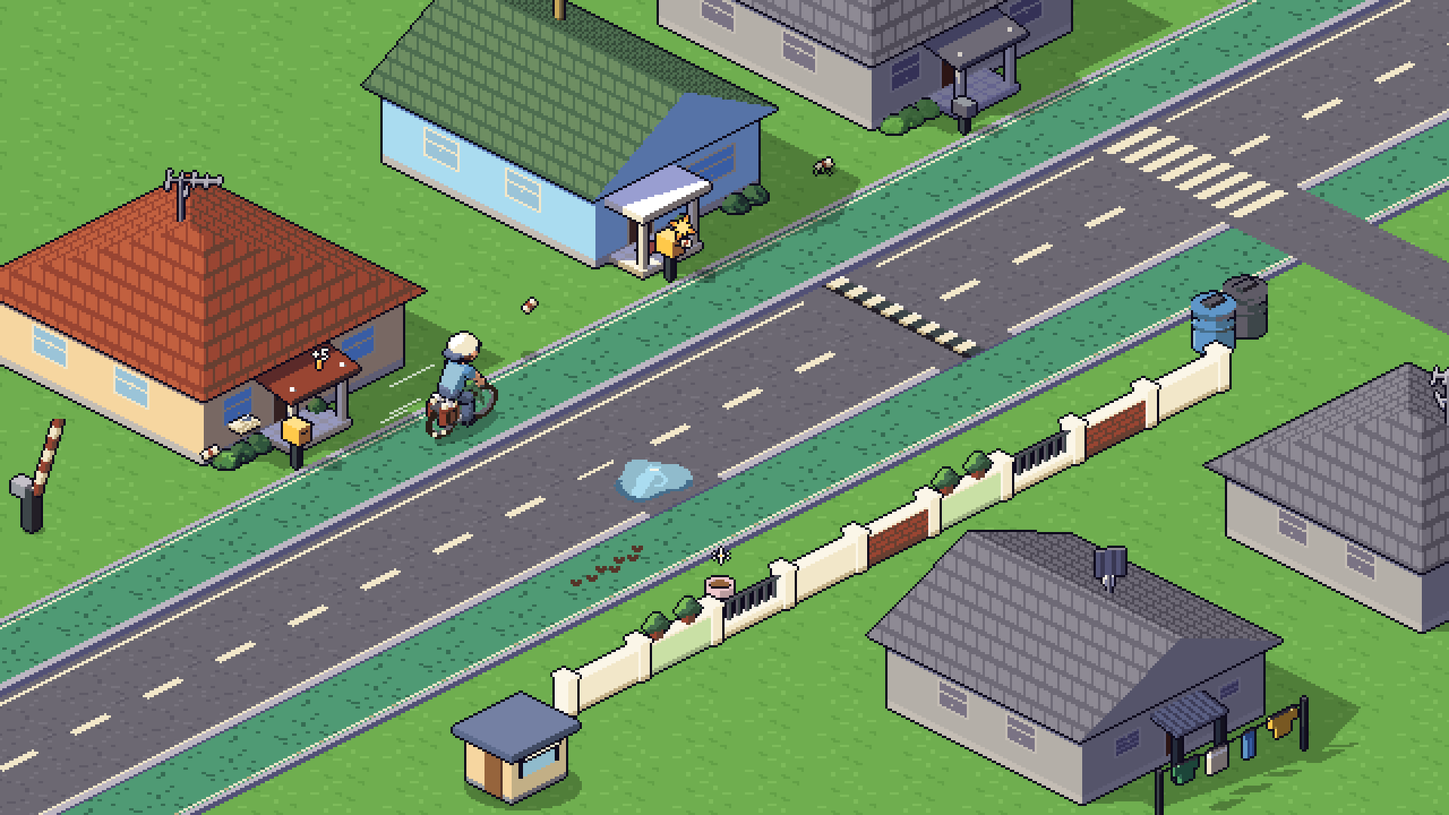
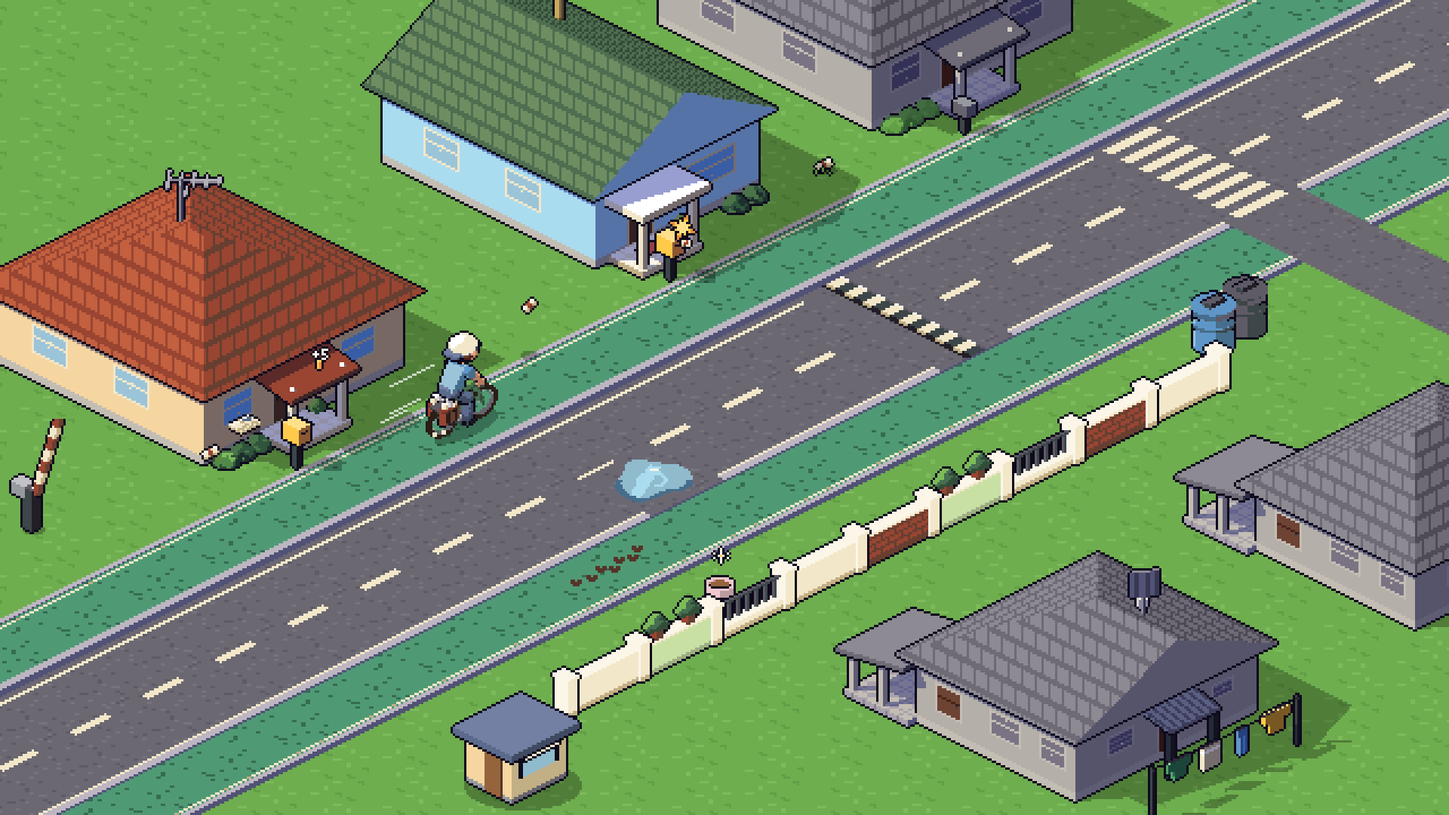
docs: DATA_SCHEMA pelanggan sisi dekat, mock gelombang1 dan LOG iterasi 1 bagian B (run 5D)
Mock gelombang1 diperbarui: tiga PNG memakai sprite rumah dekat yang diganti bagian A (uji_aset_gelombang1 merah di HEAD A).

Claude-Session: https://claude.ai/code/session_01PhCE8fHhKZTiUsZFKFJHt1

Changed region(s): [[0.5625, 0.6417, 0.9375, 1.0], [0.8125, 0.4278, 1.0, 0.7944]]

diff --git a/docs/loop/20261022-fase5d-sisi-dekat/LOG.md b/docs/loop/20261022-fase5d-sisi-dekat/LOG.md
@@ -1,11 +1,12 @@
 # Loop Log — 20261022-fase5d-sisi-dekat
 Scope: Run 5D, Fase 5 (dimajukan dari Fase 8): pelanggan sisi dekat mulai hari 3 (8-9 dari 25), tembok dekat dihapus jadi halaman terbuka, rumah dekat mundur 0,5 ubin dan didesain ulang dengan teras menjorok  ·  Branch: feat/fase5d-sisi-dekat  ·  Mulai: 2026-10-22  ·  Godot: 4.7.2
 
-## Status: IN_PROGRESS   (iterasi saat ini: 1/2, bagian A)
+## Status: IN_PROGRESS   (iterasi saat ini: 1/2, bagian B selesai; bagian C menunggu)
 
 ## Ringkasan iterasi
 | Iter | Dev menyelesaikan | Gerbang (import/tes/keluaran) | QA verdict | Temuan baru | Terverifikasi |
 |---|---|---|---|---|---|
+| 1 (B) | AC-7..AC-13: data pelanggan dekat (34 dari 36 rumah), validasi segmen, `RouteBuilder` dari hari (8/9 dekat sejak hari 3), zona dekat cermin seberang, kotak surat dua sisi, terlipat teras dekat, bantu/radar/progres, tip hari 3, probe empat ukuran; 30 mutan | import 0 / 19180 lolos 0 gagal / pemeriksa lolos; 14 uji_*.py exit 0; save tetap | menunggu orchestrator | - | - |
 | 1 (A) | AC-1..AC-6: baseline, fase3 dapat dihasilkan ulang + uji, rumah dekat baru (teras menjorok, tanpa kotak surat), tembok dilepas, mundur 0,5, kotak penutup sprite nyata; AC-6 tercapai TANPA pudar (P-3 tidak dipakai); 14 mutan | import 0 / 18933 lolos 0 gagal / pemeriksa lolos; 14 uji_*.py exit 0; save tetap | menunggu orchestrator (titik henti D-1) | - | - |
 
 ## Temuan
@@ -126,3 +127,132 @@ Semua 14 tertangkap, `git status` bersih sesudah tiap mutan (12 lewat skrip + M-
 
 ### Commit bagian A
 ed9b504 (AC-2), 2c799cb (AC-3), db8d9dd (AC-4..AC-6), dan commit probe + tangkapan + LOG ini.
+
+## Iterasi 1, bagian B (Dev)
+
+Commit bagian B: 381fa18 (kode, data, tes), f97cbd4 (probe dan tangkapan), dan commit LOG + DATA_SCHEMA + mock gelombang1 ini. `ThrowSolver`, `BikeMotion`, `Tabrakan`, `TenggatRute`, angka skor, `MissionManager`, `RencanaMisi`, `BikeCondition`, `Economy`, `DataSave`, `SaveManager`: `git diff main` kosong.
+
+### Keputusan Dev (dicatat, bukan putusan pemilik)
+- **Kandidat pelanggan dekat = 34 dari 36 rumah dekat** (`pelanggan_boleh: true`). Dua rumah bukan kandidat: `per_tengah_02@12` dan `per_tengah_03@28`, karena zona kotak surat dekat (lateral 1,75..2,75, maju pos+1,25..2,5) beririsan dengan anjing dekat (lateral 2,5..3,0) di @14 dan @30 (oracle literal di `TesSisiDekatB`). Validasi rintangan-vs-zona berlaku untuk rumah dekat yang `pelanggan_boleh`; dekor dan pita simpang diperiksa untuk SEMUA rumah dekat. **Catatan untuk review (bukan BLOCKED, tidak mengubah rintangan atau rumah):** kotak surat abu-abu dua rumah itu tumpang visual dengan anjing yang duduk di halamannya. Preseden: seberang `per_tengah_04` anjing @8 beririsan dengan zona kotak surat pelanggan seberang @6 sejak run 3B. **Rekomendasi (satu):** bila terasa mengganggu di HP, geser anjing dekat `per_tengah_02` @14 -> @16 dan `per_tengah_03` @30 -> @32 (mengubah rintangan = keputusan pemilik, di luar D-5).
+- **Zona dekat di rute** (`ZonaSasaran.zona_rumah_dekat_rute`, cermin seberang): kotak surat `[1,75; 1,25; 1,0; 1,25]` (+ inti `[2,0; 1,625; 0,5; 0,5]`), halaman `[2,0; -0,5; 1,90625; 3,0]` (dari tepi trotoar sampai badan rumah = pijak 5,0 + penutup JSON -1,09375), teras = `teras_ubin` JSON digeser ke pijak gambar (lateral 3,1875..4,0625, maju kavling -0,375..+0,5625). Konstanta `Config.RUTE_DEKAT_*` (satu baris, literal; tes membandingkan dengan JSON aset). Zona dekat JALAN UJI (`zona_rumah_dekat`, `JALAN_UJI_DEKAT_*`) tidak berubah (D-6).
+- **Kotak surat dekat** di lateral +2,125, maju kavling + 1,75 (cermin sprite seberang -2,125). Oranye pelanggan, abu-abu bukan, semua rumah dekat (D-3), termasuk hari 1-2 (semua abu-abu). `SpriteRumah.nama_rumah` kini memakai varian `_pelanggan` untuk rumah dekat terpilih (sprite A).
+- **Koran terlipat di teras dekat (catatan A):** teras dekat ada di BELAKANG pijak sprite rumah menurut Y-sort. Solusi tetap di induk Y-sort yang sama: `RumahDaurRute` membungkus sprite terlipat rumah DEKAT dalam `Node2D` pembungkus yang diletakkan `RUTE_RUMAH_DEKAT_URUT_TERLIPAT_PX` = 1 px di depan pijak rumah; sprite ada di titik tengah teras sebagai anak pembungkus; kolam dipakai ulang; seberang tidak berubah. Bukti piksel (`TesSisiDekatScene._test_terlipat_dekat`, oracle PNG + JSON + iso ditulis ulang): 0% piksel terlipat tertimpa sprite rumah dengan urutan game; kontrol (diletakkan langsung di titik teras) tertimpa >50%.
+- **`MedanKoran.tertutup_titik`** kini memakai `PenutupPemain.dari_rumah_gambar` (seberang = tapak logika, tak berubah; dekat = kotak sprite nyata). Bukti: 143 dari 143 titik seberang identik, tertutup sisi dekat 196 -> 104 dari 506 lemparan acak (kotak logika lama 3..6 x tinggi 2 menandai halaman/teras dekat "tertutup" padahal tidak tertimpa sprite; banding per lemparan di bawah).
+- **Tip hari 3:** `TipSisiDekat` (logika murni: hari = 3, 6 detik waktu game beku saat jeda, sekali per `RuteMain`, tidak diisi ulang "Main lagi") + `PanelTipSisiDekat` (scene `scenes/ui/panel_tip_sisi_dekat.tscn`, kolom kiri x 26 y 88 di bawah kartu misi, lebar 150, tanpa kontrol penerima sentuhan, inset aman dibaca seperti HUD). Kunci `RUTE_TIP_LABEL` ("TIP") dan `RUTE_TIP_SISI_DEKAT` ("Mulai hari ini pelanggan ada di kedua sisi jalan") di `ui.csv` (awalan `RUTE_` agar pemeriksa awalan tidak diubah). Tanpa bidang save; `DataSave` diff kosong.
+- **Petunjuk misi dari lemparan tepat (catatan, tidak diubah):** `MissionManager` menghitung lemparan tepat ke kotak surat pelanggan di jendela rumah; lemparan tepat ke pelanggan dekat dalam jendela itu juga memberi petunjuk (hanya sisi seberang punya titik kucing). `MissionManager`/`RencanaMisi` tidak boleh berubah; dibiarkan sebagai bonus presisi, ditandai untuk keputusan pemilik.
+- **Lingkungan tes headless:** headless mengembalikan ukuran jendela root sesudah tiap frame (viewport 640x640); tes scene baru mengatur `root.size` lagi sesudah `await` supaya langkah sinkron berjalan di 780x360. Tes lama tidak diubah.
+- **Perbaikan bagian A yang tidak tertangkap:** `uji_aset_gelombang1.py` merah di HEAD bagian A (3 mock `komposisi_siang/sore_x3` dan `sisi_dekat_siang_x3` memakai sprite rumah dekat yang diganti A). Diperbaiki: `python3 tools/env_art/gelombang1/render.py --mock`, hanya tiga PNG yang berubah-dan-diuji yang dikomit (enam PNG lain ikut berubah byte oleh pustaka mesin ini dan dikembalikan).
+- **P-3 pudar, tembok:** tidak dipakai / sudah dihapus di bagian A; mutan terkait ada di tabel A (M-A3, M-A12) dan tidak diulang.
+
+### AC-7 data dan validasi
+- 9 segmen nyata sah, 0 galat; `sisi_pelanggan` semuanya `dua_sisi`; `DISTRIK_SATU_SISI` dihapus. Validasi baru `SegmenRute`: tag sesuai isi (`_periksa_sisi_pelanggan`), `rintangan_menimpa_zona_dekat` (anjing diam dan lintasan mobil vs zona kotak surat dan teras rumah dekat kandidat). Aturan dekor (kotak surat + teras) dan pita simpang (zona rumah) yang lama otomatis memakai geometri zona baru; data nyata lolos tanpa memindah dekor (tidak ada dekor dipindah).
+- Tes negatif satu per satu + positif di `TesSisiDekatB._test_validasi_segmen` (anjing @12 ditolak, @11 sah, rumah bukan kandidat sah, anjing seberang sah, mobil dekat, pohon, lampu, simpang @9 ditolak, pohon @8 dan simpang seberang sah, enam kasus tag). Jalan masuk garasi (lateral <= 0) tidak pernah menjangkau zona dekat: dites untuk pos 3..40, bukan cabang validasi.
+
+### AC-8 RouteBuilder dari hari, ukur hari 3..102 (`tests/ukur_hari_dekat.gd`)
+| Ukuran | Nilai |
+|---|---|
+| Rute sah | 100 dari 100 (gagal 0) |
+| Jumlah dekat per rute | **8: 54 rute, 9: 46 rute** (100% di {8, 9}); 25 pelanggan tiap rute, semua rumah `pelanggan_boleh` |
+| Persentase dekat | 8/25 = 32%, 9/25 = 36% (rata-rata 34,6%) |
+| Celah gabungan (dua sisi, urut maju) | min 2,0 / median 10,0 / **maks 20,0** ubin (batas 20), tidak ada celah 0 |
+| Celah per sisi | seberang 4,0 / 16,0 / 24,0; dekat 16,0 / 28,0 / 44,0 (maks seberang 24 > 20 wajar: batas berlaku pada celah gabungan) |
+| Tenggat | 89 .. 92 detik (panjang rute 232 .. 240 ubin; rumus tidak berubah) |
+- Hari 1-2: rute identik `main`. Golden 60 seed dihitung di `main` (53408cf) oleh Python dari dump pustaka `main` (identitas: panjang, koran, tenggat, segmen, pelanggan, pemberi tip, rintangan, titik misi, dekor, rumah id/maju/jenis) dan ditulis literal di `TesSisiDekatB.GOLDEN_HARI1`: 60 dari 60 cocok; `bangun` tanpa hari = hari 1 = hari 2. Banding pustaka `main` vs HEAD bagian B per bidang (60 seed): satu-satunya beda adalah bidang `pelanggan_boleh` rumah DEKAT (1678 entri); segmen, rumah (id, maju, sisi, jenis), pelanggan, pemberi tip, objek, titik misi, dekor, simpang, panjang, koran, tenggat, galat identik. Pustaka `main` dan HEAD bagian A identik.
+- RNG hari >= 3: kuota (`randi_range(8, 9)`) diundi dari RNG rute SESUDAH susunan segmen; dua `_cocokkan` (dekat, lalu seberang) memakai RNG yang sama; tanpa RNG di luar seed. Hari tidak ikut seed (hari 3 dan hari 50 dengan seed sama = rute sama). `periksa_rute(rute)` memakai `Rute.hari`: pelanggan dekat hanya hari >= 3, hanya rumah `pelanggan_boleh`, kuota 8-9, celah gabungan <= 20.
+- `HariMain` meneruskan hari lewat `RuteMain.atur_hari` SEBELUM scene masuk pohon (tes dengan save hari 2, 3, 4 di folder sementara: `rute.hari()`, seed `SeedHari.rute(hari)`, 0 / 8-9 pelanggan dekat, tip hanya hari 3). `rute.tscn` sendiri = hari 1. "Main lagi" mempertahankan hari.
+
+### AC-9, AC-10, AC-11, AC-12 (tes scene `tes_sisi_dekat_scene.gd`, nilai harapan literal atau dari JSON/PNG)
+- Kotak surat: tiap rumah di jendela punya tepat satu kotak (oranye pelanggan / abu-abu bukan) di lateral -2,125 (seberang) atau +2,125 (dekat), maju kavling + 1,75, sprite rumah varian sesuai; hari 1 semua dekat abu-abu; node kolam dipakai ulang.
+- Prediksi = hasil: swipe NYATA (event sentuh -> `TouchRouter` -> garis bidik -> lepas -> koran terbang -> mendarat) ke kotak surat, teras, halaman, dan meleset di sisi dekat, tangan normal dan KIDAL (zona swipe kiri): titik mendarat diklasifikasikan oracle independen (literal + `teras_ubin`/`penutup_ubin` JSON) = hasil game = prediksi garis bidik = antaran (SAH_PENUH / SAH_PENUH / SAH_SETENGAH / TIDAK_SAH), elips SAH hanya bila sah. Selain itu grid 18.818 titik (1/16 ubin) pelanggan + bukan: 0 beda dari oracle (`_test_zona_oracle_grid`).
+- Skor/koin sama aturan: ANTAR sisi dekat `skor 100` (= `SKOR_SASARAN_DASAR`, combo 1,0, santai) dan koin >= ongkos 15; pemberi tip dekat: teras +5 tip, kotak surat 0 tip (SkorRute tidak punya input sisi).
+- Mode bantu: untuk tiap pelanggan dekat, sepeda mundur 0..8 ubin (langkah 0,5) dari kotak suratnya: SEMUA pilihan bantu dekat (>50) = pelanggan dekat terdekat di depan (oracle literal pos+1,875), mendarat di zona kotak surat (selalu kena); tiap pelanggan dekat terjangkau dari suatu titik; sesudah pelanggan dekat terakhir = tanpa sasaran; sisi seberang tidak pernah menyasar zona dekat; tap bantu nyata: koran bantu, KOTAK_SURAT, bukan tepat.
+- Radar (strip DEKAT = kanan; kidal tidak menukar), `jangkau`, jenis TIP/PELANGGAN/BUKAN (abu-abu hanya mode bantu), terantar keluar: dibandingkan oracle literal (jarak = pos + 1,875 - sepeda, 0..30, jangkau <= 5) untuk 2 x 2 x 122 keadaan; progres 25 kotak dua sisi (BERIKUTNYA, TERLEWAT < -3, TERKIRIM) = oracle; `jumlah_terkirim` menghitung dekat.
+- Tip: hanya hari 3 (tidak 1, 2, 4, 50), teks terjemahan tampil, panel tidak menelan sentuhan (tap bantu tetap melempar saat tip tampil), di dalam viewport dan tidak menimpa panel progres/tombol jeda, beku saat jeda (60 x 1 detik jeda: sisa tidak berubah), hilang sesudah 6 detik, "Main lagi" tidak memunculkan lagi, kidal dan inset aman.
+
+### Bot bantu (scene nyata, AC-11): 25/25 terkirim, 0 lewat tenggat di 22 rute
+Bot: mode bantu, tanpa stick (santai 3,0 u/d), satu tap per pelanggan yang belum dibidik (sisi dekat dulu), dt 1/30 (hari 1-2 = dua rute seed hari 1 dan 2; 20 seed hari 3..22).
+| Hari | Dekat | Selesai (detik) | Tenggat | Sisa |
+|---|---|---|---|---|
+| 1 | 0 | 80,0 | 92 | 12,0 |
+| 2 | 0 | 78,6 | 91 | 12,4 |
+| 3 | 8 | 77,2 | 89 | 11,8 |
+| 4 | 9 | 78,6 | 91 | 12,4 |
+| 5 | 8 | 78,6 | 91 | 12,4 |
+| 6 | 9 | 78,6 | 91 | 12,4 |
+| 7 | 9 | 78,6 | 91 | 12,4 |
+| 8 | 8 | 77,2 | 89 | 11,8 |
+| 9 | 8 | 77,2 | 89 | 11,8 |
+| 10 | 9 | 78,6 | 91 | 12,4 |
+| 11 | 8 | 79,9 | 92 | 12,1 |
+| 12 | 8 | 77,2 | 89 | 11,8 |
+| 13 | 8 | 79,9 | 92 | 12,1 |
+| 14 | 8 | 78,6 | 91 | 12,4 |
+| 15 | 9 | 78,6 | 91 | 12,4 |
+| 16 | 9 | 78,6 | 91 | 12,4 |
+| 17 | 9 | 77,2 | 89 | 11,8 |
+| 18 | 9 | 78,6 | 91 | 12,4 |
+| 19 | 8 | 78,6 | 91 | 12,4 |
+| 20 | 9 | 77,2 | 89 | 11,8 |
+| 21 | 9 | 77,2 | 89 | 11,8 |
+| 22 | 8 | 78,6 | 91 | 12,4 |
+Sisa tenggat 11,8..12,4 detik di semua seed (dua sisi tidak memperlambat bot karena kecepatan santai tetap dan kecepatan bantu tidak bergantung jumlah pelanggan; bot mode bantu tidak melemparkan koran lebih dari 25 dari 30).
+
+### Rumah dekat di bawah panel HUD bawah (diukur, HUD TIDAK diubah; probe 2340x1080, juga 1600x720: angka sama)
+Sepeda tiap 2 ubin sepanjang rute (114 sampel), lateral 0,5, tangan normal dan kidal (angka sama):
+- kotak pembatas sprite rumah dekat menyentuh panel kecepatan/stamina atau panel koran di **100%** sampel (rumah dekat memang selalu lewat di bawah panel bawah, bukan akibat run ini);
+- titik kotak surat dekat (mana pun, termasuk yang sudah lewat) di dalam panel bawah di 52% sampel;
+- **kotak surat PELANGGAN dekat dalam jangkauan lempar (0..5 ubin di depan) di dalam panel bawah di 0% sampel**: sasaran yang bisa dilempar tidak pernah tertutup panel. Rumah dekat tampak (di tangkapan 2340, 1920, 1600) tertutup sebagian panel di bawah sepeda; dinilai di HP (SETUP_ANDROID 8.16 butir 8).
+
+### Tes lama yang angkanya berubah (D-5, satu per satu, alasan)
+1. `tes_rute.gd`: `BOLEH` dipisah, `BOLEH_DEKAT` baru (literal), total `pelanggan_boleh` 37 -> 37 seberang + 34 dekat = 71, tag nyata `seberang` -> `dua_sisi`, mutan data `sisi_pelanggan_dekat` dan `rumah_pelanggan_dekat` kini ditolak dengan "tidak sesuai isi" (aturan satu sisi dihapus, P-4), mutan `periksa_rute` memakai pesan baru "bukan rumah yang boleh untuk hari".
+2. `tes_rute_scene.gd`: `nama_rumah(dekat terpilih)` = `_pelanggan` (dulu selalu `_bukan`); titik "di balik rumah dekat" (2,5 -> 2,9) karena kotak tertutup rumah dekat = sprite nyata (teras dan atap tidak lagi menutup lateral 2,5).
+3. `tes_kotak_surat.gd`: rumah dekat kini punya kotak surat (lateral +2,125); batas simpul kolam 20 -> maks rumah di jendela + 4 (kedua sisi).
+4. `tes_sisi_dekat.gd`: golden 1000 lemparan dipecah per sisi. Seberang `[494, 5508, 143, 809075394]` = nilai sebelum run 5B (tidak berubah); dekat `[506, 5629, 104, 648143202]` baru (HEAD A: tertutup 196, checksum 1274964814). Banding per lemparan HEAD A vs HEAD B (1000 lemparan, skrip `dump_lempar.gd`): 45 beda hasil/zona, **semuanya di sisi dekat (0 di seberang)**; 92 beda tertutup, 0 di seberang. Total checksum 992255826 -> 1166943782.
+5. `tes_dekor.gd`: (a) golden rute 60 seed dihitung ulang oleh skrip; bukti: dengan `pelanggan_boleh` rumah dekat ditopeng false, sidik 60 seed = nilai lama persis (kontrol skrip), jadi beda hanya bidang itu; (b) "tapak (2,25; 10,75) menimpa teras dekat" diganti: teras dekat baru di lateral 3,19..4,06 tidak terjangkau dekor (lateral <= 2,75), ditambah tes tapak hipotetis dan batas kotak surat 2,75; "pohon dekat @11 menimpa teras" -> sah (tapak maju berakhir 11,25 = awal kotak surat).
+6. `tes_simpang.gd`: golden rute 60 seed (uraian dengan dekor) dihitung ulang, bukti kontrol topeng sama.
+- `run_tests.gd`: dua tes baru didaftarkan. Total tes: 18933 -> **19180** lolos (+247), 0 gagal.
+
+### Mutan nyata bagian B (30; satu perubahan, runner = tes bagian B (82 cek) / tes scene baru (122 cek) / `run_tests.gd` penuh, `git checkout`, `git status` bersih tiap kali; skrip `mutan_b.py` di scratchpad Dev)
+| ID | Berkas | Perubahan satu baris | Hasil | Gagal yang menangkap (contoh) |
+|---|---|---|---|---|
+| M-B1 | `route_builder.gd` | hari mulai `>=` jadi `>` | TERTANGKAP (5) | hari mulai pelanggan dekat = 3 (2 tidak, 3 ya) |
+| M-B2 | `config.gd` | kuota min 8 -> 7 | TERTANGKAP (2) | sebaran { 8: 39, 9: 37, 7: 24 } != golden |
+| M-B3 | `config.gd` | kuota maks 9 -> 10 | TERTANGKAP (2) | sebaran dengan 10 |
+| M-B4 | `config.gd` | `RUTE_DEKAT_HARI_MULAI` 3 -> 2 (pelanggan dekat di hari 2) | TERTANGKAP (6) | hari 1 = hari 2 untuk seed sama (0 dari 60) |
+| M-B5 | `route_builder.gd` | RNG hari 1-2 bergeser (`+ rng.randi() * 0` di jalur lama) | TERTANGKAP (1) | 60 rute tanpa hari: identitas = golden main (0 cocok) |
+| M-B6 | `route_builder.gd` | celah gabungan tidak diperiksa di pemilih (batas 1000) | TERTANGKAP (2) | 100 hari semuanya sah (gagal 6, ditolak `periksa_rute`) |
+| M-B7 | `route_builder.gd` | kandidat dekat tanpa `pelanggan_boleh` | TERTANGKAP (6, galat skrip) | 100 hari semuanya sah (gagal 100) |
+| M-B8 | `config.gd` | kotak surat dekat lateral +2,125 -> -2,125 (sisi salah) | TERTANGKAP (2) | tiap rumah punya kotak surat di lateral dekat +2,125 |
+| M-B9 | `zona_sasaran.gd` | teras dekat dari geometri lama (`JALAN_UJI_DEKAT_TERAS_UBIN`) | TERTANGKAP (3) | teras dekat dari geometri teras menjorok |
+| M-B10 | `zona_sasaran.gd` | prioritas halaman dan teras tertukar | TERTANGKAP (2) | klasifikasi grid: 180 beda dari oracle |
+| M-B11 | `zona_sasaran.gd` | skor dekat beda (zona kotak surat dekat berjenis HALAMAN) | TERTANGKAP (8) | kotak surat dekat = cermin seberang |
+| M-B12 | `bantu_lempar.gd` | bantu menyasar sisi seberang untuk tap dekat | TERTANGKAP (24) | sasaran bantu dekat = pelanggan dekat terdekat |
+| M-B13 | `radar_rute.gd` | radar tanpa rumah dekat | TERTANGKAP (2) | radar = oracle literal |
+| M-B14 | `progres_rute.gd` | `jumlah_terkirim` hanya seberang | TERTANGKAP (22) | jumlah terkirim menghitung pelanggan dekat |
+| M-B15 | `tip_sisi_dekat.gd` | tip di hari >= 3 (hari lain) | TERTANGKAP (5) | hari tip hanya 3 |
+| M-B16 | `tip_sisi_dekat.gd` | tip tidak tampil di hari 3 (kunci kosong) | TERTANGKAP (8) | kunci teks dan lama 6 detik hanya di hari 3 |
+| M-B17 | `config.gd` | mundur 0,5 -> 1,25 (mundur lama kembali) | TERTANGKAP (2) | teras dekat dari geometri teras menjorok |
+| M-B18 | `medan_koran.gd` | kotak penutup titik bukan sprite nyata (`dari_rumah`) | TERTANGKAP (1; run_tests penuh) | sisi dekat [506, 5629, 196, ...] != nilai baru |
+| M-B19 | `segmen_rute.gd` | cabang teras validasi rintangan dilepas | TERTANGKAP (1) | lintasan mobil garasi dekat @10 menimpa teras |
+| M-B20 | `segmen_rute.gd` | validasi rintangan berlaku untuk bukan kandidat juga | TERTANGKAP (9) | 9 segmen nyata sah (per_tengah_02 anjing menimpa) |
+| M-B21 | `segmen_rute.gd` | cabang tag `seberang` dilepas | TERTANGKAP (1) | seberang padahal ada rumah dekat yang boleh |
+| M-B22 | `config.gd` | urut Y-sort terlipat +1 -> -1 px | TERTANGKAP (3) | pembungkus di pijak rumah + (0; 1) px |
+| M-B23 | `hari_main.gd` | `atur_hari` tidak dipanggil | TERTANGKAP (6) | save hari 2: rute.hari() = 2 |
+| M-B24 | `rute_main.gd` | tip memakai dt waktu dinding (tidak beku saat jeda) | TERTANGKAP (1) | jeda 60 detik: tip beku (sisa 4,9 = 5,9) |
+| M-B25 | `route_builder.gd` | cek kuota 8-9 di `periksa_rute` dimatikan | TERTANGKAP (2) | mutan: 7 pelanggan dekat ditolak |
+| M-B26 | `sprite_rumah.gd` | rumah dekat selalu varian `_bukan` | TERTANGKAP (1) | sprite rumah bukan varian pelanggan |
+| M-B27 | `rumah_daur_rute.gd` | kotak surat oranye hanya seberang | TERTANGKAP (2) | tiap rumah punya kotak surat sesuai status |
+| M-B28 | `config.gd` | halaman dekat 1,90625 -> 1,0 lebar (geometri halaman lama) | TERTANGKAP (4) | halaman dekat sampai badan rumah |
+| M-B29 | `segmen_rute.gd` | `_periksa_sisi_pelanggan` tidak dipanggil | TERTANGKAP (4) | dua_sisi tanpa rumah dekat yang boleh ditolak |
+| M-B30 | `route_builder.gd` | kuota dekat tetap 8 (tidak diundi) | TERTANGKAP (1) | sebaran { 8: 100 } != golden |
+Total mutan Dev: 14 (A) + 30 (B) = **44** (target >= 30 terpenuhi). Mutan "validasi tumpang tiap cabang dilepas": rintangan (M-B19, M-B20), tag (M-B21, M-B29); dekor dan pita simpang adalah aturan lama yang dijaga `tes_dekor`/`tes_simpang` (M-A12 untuk kavling simpang). Butir AC-19 yang tidak berlaku di bagian B: pudar P-3 (tidak dipakai), tembok masih dipasang (dihapus di A, M-A3), aset tembok tersalin (M-A10), `.import` bukan Lossless (M-A11), fase3 tidak deterministik (M-A2). 
+
+### Gerbang bagian B (Dev, HEAD sesudah commit LOG)
+- `godot --headless --import`: 0 ERROR/WARNING. `godot --headless --path . --quit-after 2`: 0 ERROR/WARNING.
+- `run_tests.gd`: **19180 lolos, 0 gagal**; `tools/cek_keluaran_tes.py`: lolos (0 peringatan).
+- 14 `tools/tests_cek/uji_*.py` exit 0 (setelah mock gelombang1 diperbarui).
[1 lines of base64/hex data omitted]
+- Probe `tests/probe_sisi_dekat_jendela.gd` 2340x1080, 1920x1080, 2400x1080, 1600x720: exit 0, **0 keadaan tidak sesuai** di keempat ukuran, 0 baris ERROR/WARNING.
+
+### Tangkapan bagian B (`docs/loop/20261022-fase5d-sisi-dekat/shots/iter1/`, `<ukuran>_dekat_<keadaan>.png`, dilihat Dev)
+Keadaan baru: `hari3_tip` (tip di kolom kiri di bawah kartu misi, tidak menutupi kontrol), `jalur_dekat`/`trotoar_dekat` (kotak surat oranye/abu-abu dekat di tepi trotoar), `sasaran_{bidik,terbang,kena}`, `teras_*`, `halaman_*`, `meleset_*` (swipe nyata; kena = centang + "+15" di kotak surat dekat), `terlipat_dekat` (koran terlipat di teras dekat, sepeda 5 ubin di belakang rumah), `bantu_dekat_{terbang,kena,tanpa_sasaran}`, `radar_dekat` (strip kanan, penanda pelanggan dekat), `hari2_tanpa_dekat` (kotak surat dekat semua abu-abu, tanpa tip), `kidal`. Catatan dari tangkapan: rumah dekat di bawah sepeda sebagian tertutup panel HUD bawah (diukur di atas); tip tetap tampil di tangkapan lempar karena belum 6 detik waktu game.

diff --git a/docs/DATA_SCHEMA.md b/docs/DATA_SCHEMA.md
@@ -135,8 +135,8 @@ File: `assets/data/routes/<distrik>/<id>.json`, satu file per segmen, **JSON bua
 | `id` | Kode unik huruf kecil dan garis bawah, **sama dengan nama berkas** (`per_tengah_02` di `per_tengah_02.json`) |
 | `distrik` | Distrik segmen (`perumahan`) |
 | `panjang` | Panjang dalam ubin, bilangan bulat 24 sampai 40 |
-| `tag` | `tingkat` (`tenang`/`sedang`/`padat`), `sisi_pelanggan` (`seberang`/`dekat`/`dua_sisi`), `posisi` (`pembuka`/`tengah`/`penutup`). Pembuka dan penutup selalu `tenang` |
-| `rumah` | Daftar petak rumah: `pos` (ubin dari awal segmen, bilangan bulat), `sisi` (`seberang`/`dekat`), `jenis` (bentuk rumah, daftar di bawah), `pelanggan_boleh` (true/false) |
+| `tag` | `tingkat` (`tenang`/`sedang`/`padat`), `sisi_pelanggan` (`seberang`/`dekat`/`dua_sisi`), `posisi` (`pembuka`/`tengah`/`penutup`). Pembuka dan penutup selalu `tenang`. `sisi_pelanggan` harus sesuai isi (run `20261022-fase5d-sisi-dekat` bagian B, divalidasi `SegmenRute`): `dua_sisi` bila ada rumah seberang DAN rumah dekat yang `pelanggan_boleh`, `seberang` bila tidak ada rumah dekat yang boleh, `dekat` bila tidak ada rumah seberang yang boleh. Sembilan segmen perumahan sekarang `dua_sisi` |
+| `rumah` | Daftar petak rumah: `pos` (ubin dari awal segmen, bilangan bulat), `sisi` (`seberang`/`dekat`), `jenis` (bentuk rumah, daftar di bawah), `pelanggan_boleh` (true/false; rumah dekat boleh sejak run 5D bagian B, tetapi pelanggan dekat baru dipilih `RouteBuilder` pada hari >= 3) |
 | `objek` | Rintangan yang ditandai: `jenis`, `pos`, `jalur` (`seberang`/`dekat`; **tidak pernah `tengah`**), `tanda_ubin` (jarak tanda terlihat sebelum rintangan, paling sedikit 9) |
 | `titik_misi` | Tempat yang boleh dipakai misi: `nama` (mis. `atap`, `balik_pot`), `pos`, `sisi`; harus berdiri di rumah (pos dan sisi sama dengan sebuah rumah) |
 | `dekor` | **Opsional** (run `20261021-fase5b-tembok-dekor`, usulan): hiasan pinggir jalan. Daftar butir `{ "jenis", "pos", "sisi", "varian" }`, keempat field wajib dan tidak ada field lain. Tabel jenis dan aturan di bawah. Berkas tanpa `dekor` tetap sah |
@@ -149,19 +149,19 @@ Contoh dari berkas nyata (`assets/data/routes/perumahan/per_tengah_02.json`):
   "id": "per_tengah_02",
   "distrik": "perumahan",
   "panjang": 32,
-  "tag": { "tingkat": "sedang", "sisi_pelanggan": "seberang", "posisi": "tengah" },
+  "tag": { "tingkat": "sedang", "sisi_pelanggan": "dua_sisi", "posisi": "tengah" },
   "rumah": [
     { "pos": 2, "sisi": "seberang", "jenis": "pelana", "pelanggan_boleh": false },
-    { "pos": 4, "sisi": "dekat", "jenis": "dekat_limasan", "pelanggan_boleh": false },
+    { "pos": 4, "sisi": "dekat", "jenis": "dekat_limasan", "pelanggan_boleh": true },
     { "pos": 6, "sisi": "seberang", "jenis": "limasan", "pelanggan_boleh": true },
     { "pos": 10, "sisi": "seberang", "jenis": "sayap", "pelanggan_boleh": true },
     { "pos": 12, "sisi": "dekat", "jenis": "dekat_pelana_sejajar", "pelanggan_boleh": false },
     { "pos": 14, "sisi": "seberang", "jenis": "limasan", "pelanggan_boleh": false },
     { "pos": 18, "sisi": "seberang", "jenis": "pelana", "pelanggan_boleh": true },
-    { "pos": 20, "sisi": "dekat", "jenis": "dekat_pelana_lintang", "pelanggan_boleh": false },
+    { "pos": 20, "sisi": "dekat", "jenis": "dekat_pelana_lintang", "pelanggan_boleh": true },
     { "pos": 22, "sisi": "seberang", "jenis": "sayap", "pelanggan_boleh": true },
     { "pos": 26, "sisi": "seberang", "jenis": "pelana", "pelanggan_boleh": true },
-    { "pos": 28, "sisi": "dekat", "jenis": "dekat_limasan", "pelanggan_boleh": false },
+    { "pos": 28, "sisi": "dekat", "jenis": "dekat_limasan", "pelanggan_boleh": true },
     { "pos": 30, "sisi": "seberang", "jenis": "limasan", "pelanggan_boleh": false }
   ],
   "objek": [
@@ -185,9 +185,17 @@ Contoh dari berkas nyata (`assets/data/routes/perumahan/per_tengah_02.json`):
 | Bidang | Nilai | Aset |
 |---|---|---|
 | `rumah.jenis` sisi `seberang` | `limasan`, `pelana`, `sayap` | `assets/sprites/houses/perumahan/house_perumahan_<jenis>_<pelanggan\|bukan>.png` |
-| `rumah.jenis` sisi `dekat` | `dekat_limasan`, `dekat_pelana_lintang`, `dekat_pelana_sejajar` | `house_perumahan_<jenis>_<pelanggan\|bukan>.png` (di distrik perumahan hanya varian `bukan` dipakai; tampilan sisi dekat diputuskan 2026-10-17: tembok/pagar belakang rendah, ROADMAP 4b; tembok belakang rendah digambar otomatis per rumah dekat, tanpa field data, run `20261021-fase5b-tembok-dekor`) |
+| `rumah.jenis` sisi `dekat` | `dekat_limasan`, `dekat_pelana_lintang`, `dekat_pelana_sejajar` | `house_perumahan_<jenis>_<pelanggan\|bukan>.png` (varian `pelanggan` dipakai rumah dekat yang dipilih jadi pelanggan, `bukan` selebihnya; sejak run `20261022-fase5d-sisi-dekat` tembok belakang dilepas, rumah dekat berteras menjorok digambar mundur 0,5 ubin, ROADMAP 4b) |
 | `objek.jenis` | `anjing_penjaga`, `mobil_garasi` | `assets/sprites/obstacles/obs_anjing_sheet`, `obs_mobil_garasi_sheet` (perilaku di Run 3B; di 3A hanya tempatnya yang ditandai) |
 | `dekor.jenis` dan `dekor.varian` | `tong_sampah` (`logam`), `pohon` (`rindang`, `glodokan`, `ketapang`), `lampu_jalan` (`lengan`) | `assets/sprites/props/prop_tong_sampah_logam`, `prop_pohon_<varian>`, `prop_lampu_lengan_<seberang\|dekat>` (lengan lampu menghadap jalan; sprite menurut `sisi`); varian lain (tong biru, pohon dan lampu jenis lain, lampu nyala) tidak dipasang dan ditolak |
+
+**Pelanggan sisi dekat** (run `20261022-fase5d-sisi-dekat` bagian B, usulan; `SegmenRute`, `RouteBuilder`, `ZonaSasaran`): rumah dekat yang `pelanggan_boleh` jadi kandidat pelanggan sejak hari >= 3 (`RouteBuilder.bangun(benih, pustaka, hari)`; hari 1 dan 2 tetap hanya seberang dengan RNG yang sama). Kuota 8 atau 9 dari 25 (`Config.RUTE_DEKAT_KUOTA_MIN`/`MAKS`), celah antar pelanggan dua sisi digabung <= 20 ubin. Aturan tempat yang divalidasi `SegmenRute.parse` untuk kotak surat dekat (zona `RUTE_DEKAT_KOTAK_SURAT_UBIN` = cermin seberang, lateral 1,75 sampai 2,75, maju `pos` + 1,25 sampai 2,5) dan teras dekat (lateral 3,1875 sampai 4,0625):
+
+- dekor sisi dekat tidak menimpa zona kotak surat atau teras **semua** rumah dekat (aturan dekor lama, geometri zona baru);
+- pita simpang tidak memotong zona rumah dekat (aturan simpang lama);
+- rintangan (anjing di posisi diam, lintasan mobil) tidak menimpa zona kotak surat atau teras rumah dekat yang `pelanggan_boleh` (`SegmenRute.rintangan_menimpa_zona_dekat`). Rumah dekat bukan kandidat boleh berbagi halaman dengan anjing: per_tengah_02@12 dan per_tengah_03@28 (anjing dekat @14 dan @30) `pelanggan_boleh: false` karena itu;
+- jalan masuk garasi hanya di lateral negatif (seberang) sehingga tidak pernah menjangkau zona dekat (dijaga tes, bukan cabang validasi).
+
 
 **Dekor** (run `20261021-fase5b-tembok-dekor` bagian B2, usulan; `SegmenRute`, `DekorRute`, `RouteBuilder`, `DekorDaur`): hiasan pinggir jalan, hanya tampilan. Bukan penghalang gerak, tidak masuk tabrakan, rintangan, zona, penilaian lemparan, `MedanKoran`, skor, atau tenggat; satu-satunya hubungannya dengan permainan adalah pohon, lampu, dan tong sampah **sisi dekat** menjadi semi-transparan (`RUTE_PENUTUP_ALFA`) bila menutupi pemain di lajur sepeda atau trotoar dekat (aturan `PenutupPemain`, kotak penutup = tinggi dan lebar sprite nyata, `Config.RUTE_DEKOR_TINGGI_PENUTUP_UBIN` dan `RUTE_DEKOR_SETENGAH_PENUTUP_UBIN`; dekor seberang tidak; P-7). `pos` = ubin bilangan bulat dari awal segmen, `1` sampai `panjang - 1`. Lateral dan tapak kaki ditentukan jenis dan sisi lewat `Config.RUTE_DEKOR_*` (tidak ada di data): sisi dekat: pohon dan tong sampah di halaman, lateral 2,5 (tapak kaki 0,5 × 0,5), lampu jalan di luar tepi trotoar, lateral 2,25 (tapak 0,25 × 0,25); sisi seberang: tong 2,5, pohon 2,75, lampu 2,625 (`RUTE_DEKOR_LATERAL_SEBERANG_UBIN`, lebih jauh supaya tidak menimpa pemain di tepi seberang). Dekor digambar di maju = `pos`; id dekor di rute `<id_segmen>:<sisi>@<pos>`. Aturan penempatan (ditolak bila dilanggar):
 
